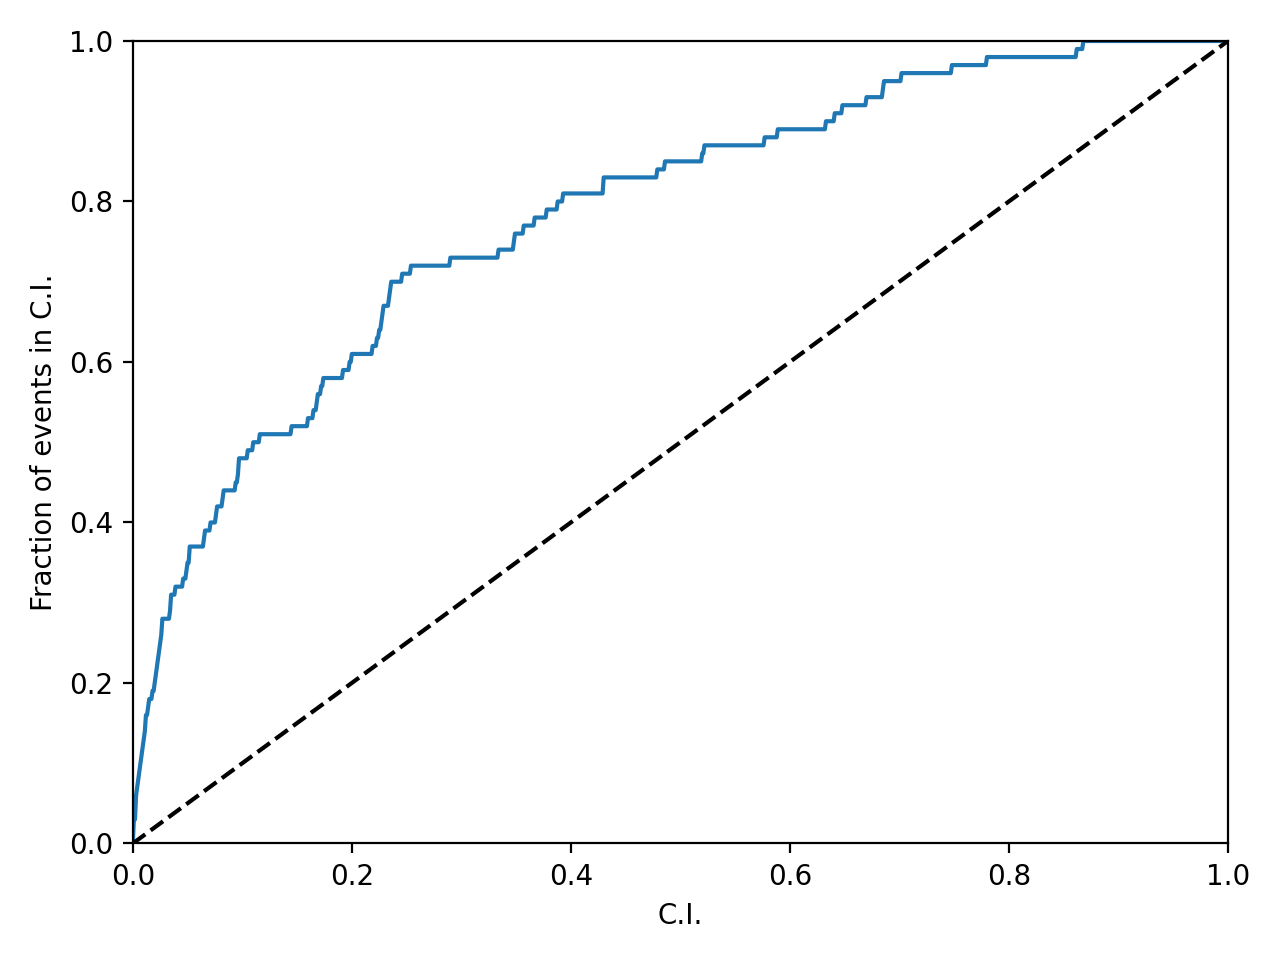
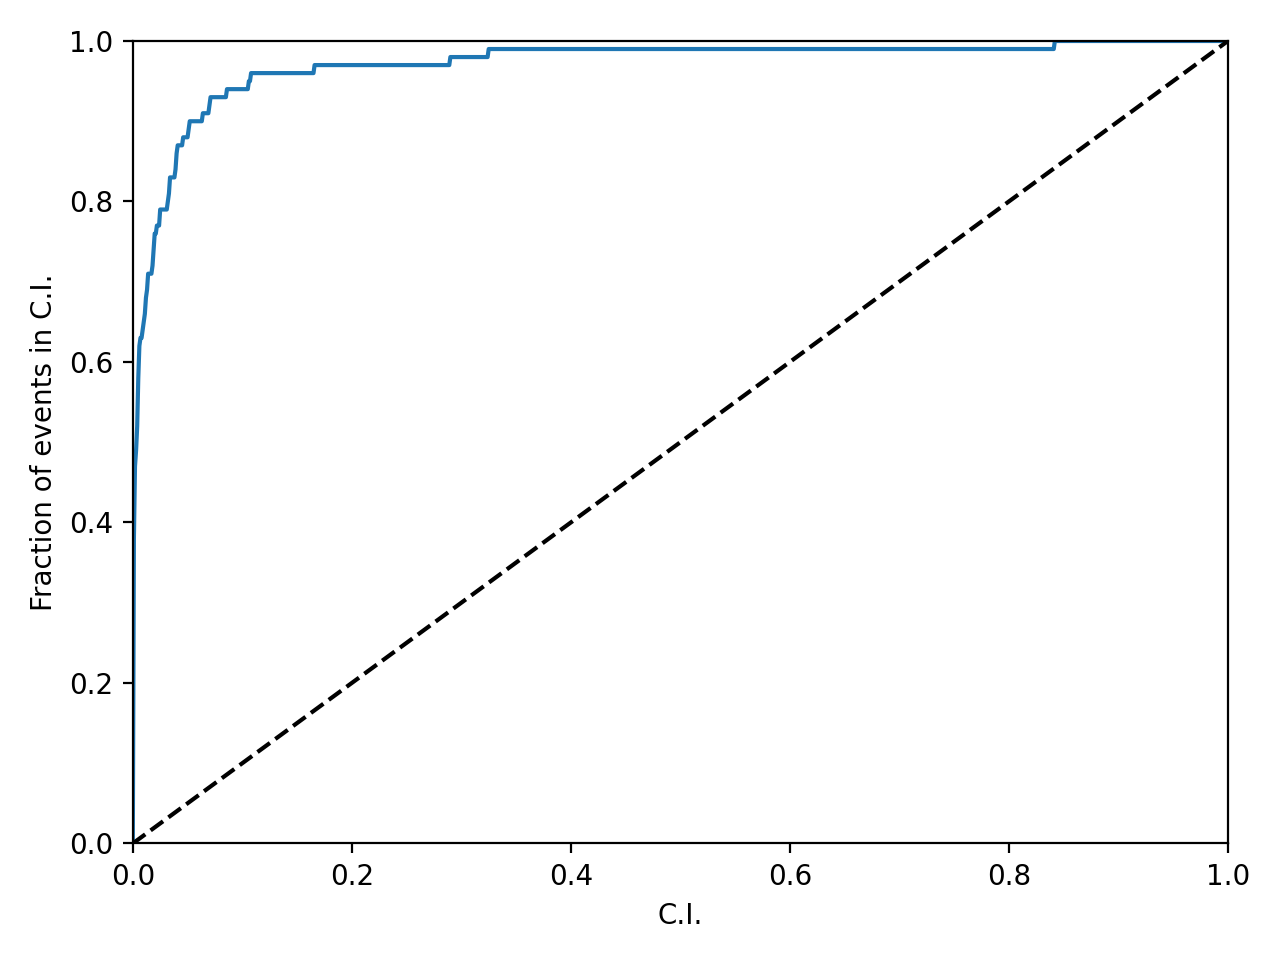
Attempt at fixing the issue

diff --git a/posteriorstacker_exponential.py b/posteriorstacker_exponential.py
@@ -62,12 +62,17 @@ for j in range(100):
     # create posterior samples - use truncated normal so values cannot be negative
 
     for i in range(len(values)):
+        std = err * values[i] * np.random.rand()
+
+        # add noise on location
+        loc = truncnorm.rvs(0.0, np.inf, loc=values[i], scale=std)
+
         samples.append(
             truncnorm.rvs(
                 0.0,
                 np.inf,
-                loc=values[i],
-                scale=(0.25 * values[i] * np.random.rand()),
+                loc=loc,
+                scale=std,
                 size=400,
             )
         )
